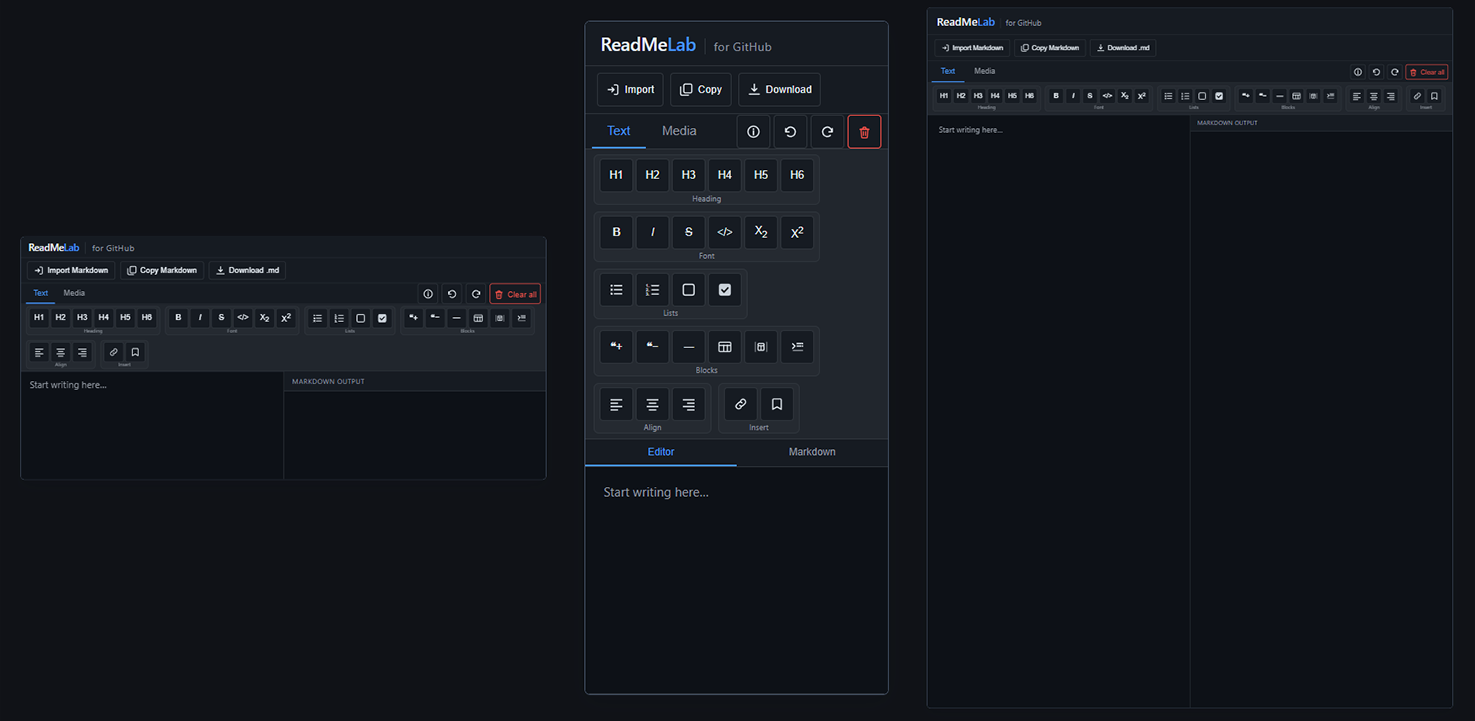
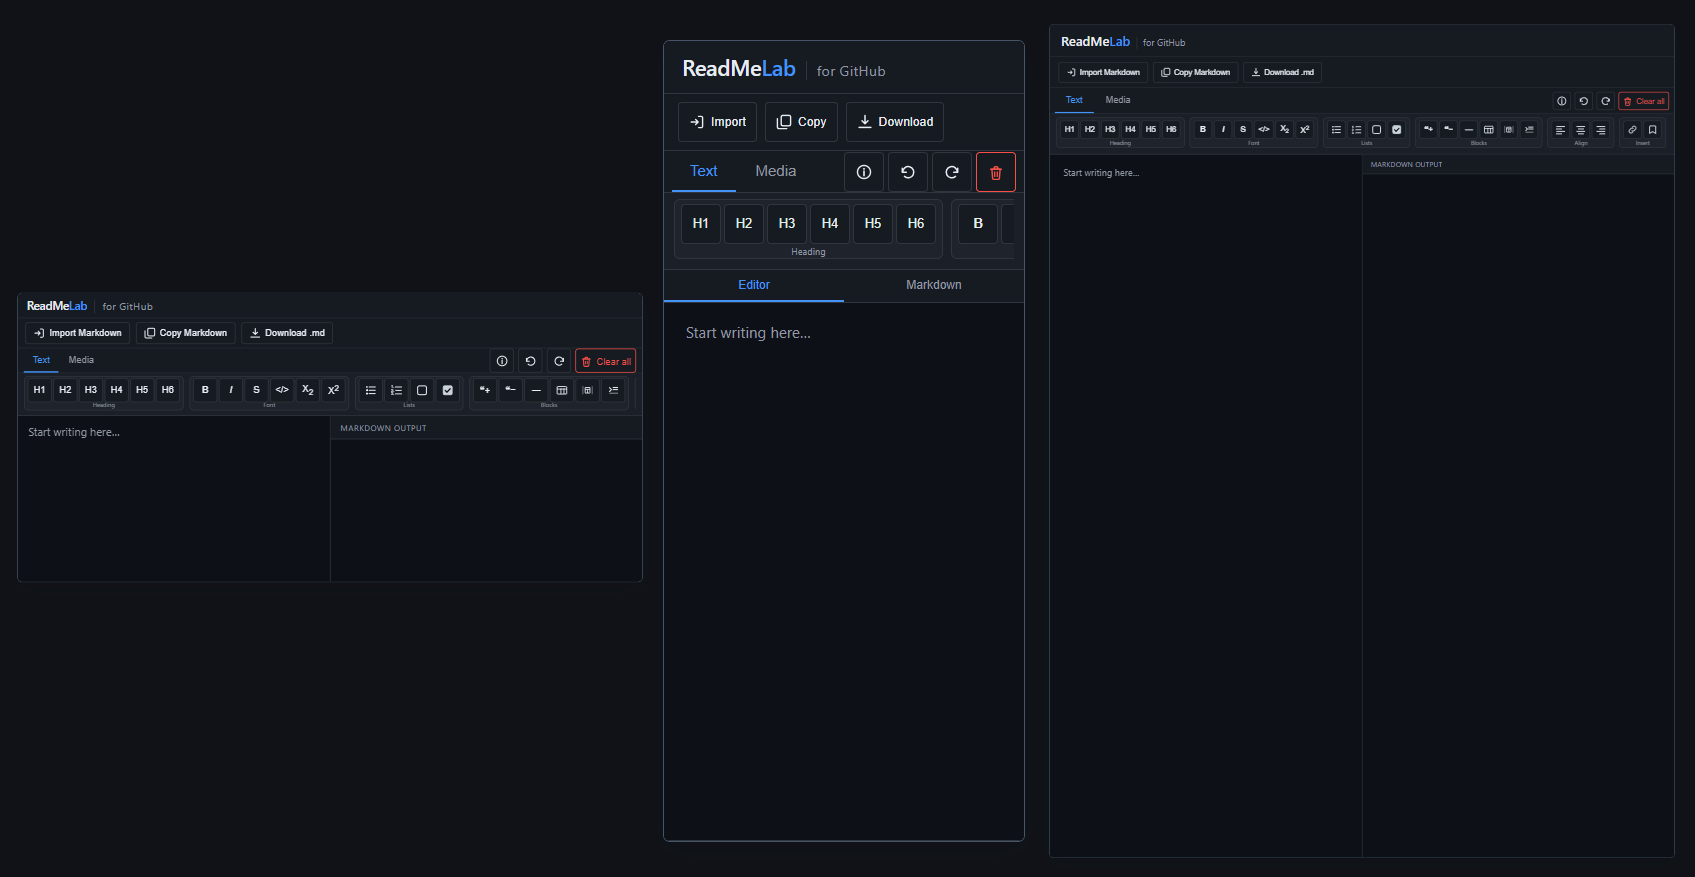
Dark scrollbar, single-row and tool-bar color

diff --git a/estilo.css b/estilo.css
@@ -84,17 +84,14 @@ body {
 
 /* Toolbar / ribbon */
 .toolbar {
-  background: var(--bg-3);
+  background: #1b2028;
   border-bottom: 1px solid var(--border);
   padding: 6px 10px;
 }
-.panel { display: none; flex-wrap: wrap; gap: 8px; }
-/* On narrow screens the toolbar wraps into rows, or scrolls when there is little height. */
-@media (max-width: 900px) and (max-height: 799px) and (orientation: portrait) {
-  .panel.active { flex-wrap: nowrap; overflow-x: auto; scrollbar-width: thin; padding-bottom: 4px; }
-  .group { flex: none; }
-}
-.panel.active { display: flex; }
+/* Toolbar buttons stay on one row and scroll sideways when the window is small. */
+.panel { display: none; flex-wrap: nowrap; gap: 8px; }
+.panel.active { display: flex; overflow-x: auto; padding-bottom: 4px; }
+.group { flex: none; }
 
 .group {
   position: relative;
@@ -442,7 +439,7 @@ body {
 
 /* Short screens: landscape phones and squashed windows. */
 @media (max-width: 900px) and (max-height: 599px) and (orientation: landscape) {
-  .panel.active { flex-wrap: wrap; overflow-x: visible; }
+  .panel.active { flex-wrap: nowrap; overflow-x: auto; }
   .toolbar button { min-width: 33px; min-height: 33px; padding: 3px 4px; }
   .toolbar button svg { width: 15px; height: 15px; }
   .group { padding: 2px 4px 10px 4px; gap: 2px; }
@@ -502,3 +499,17 @@ body {
   padding-top: 3px !important;
   padding-bottom: 0 !important;
 }
+
+/* Dark scrollbars matching the page */
+* {
+  scrollbar-width: thin;
+  scrollbar-color: #30363d transparent;
+}
+*::-webkit-scrollbar { width: 10px; height: 10px; }
+*::-webkit-scrollbar-track { background: transparent; }
+*::-webkit-scrollbar-thumb {
+  background: #30363d;
+  border-radius: 6px;
+  border: 2px solid var(--bg);
+}
+*::-webkit-scrollbar-thumb:hover { background: #484f58; }
